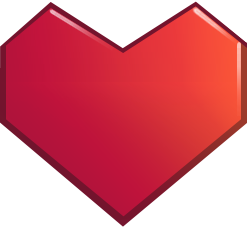
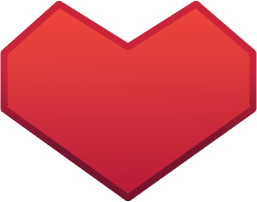
#86 - PlayerUI 구조 개선

Changed region(s): [[0.0, 0.0, 1.0, 1.0]]

diff --git a/SR_Project/Client/Code/UILoader.cpp b/SR_Project/Client/Code/UILoader.cpp
@@ -16,6 +16,7 @@
 #include "Slot.h"
 #include "Emerald.h"
 #include "HPBarBack.h"
+#include "ArrowSlot.h"
 
 void UILoader::LoadUI(ObjectManager* objMgr, Player* player)
 {
@@ -26,14 +27,14 @@ void UILoader::LoadUI(ObjectManager* objMgr, Player* player)
 
 	auto hpInfo = hpBarFront->GetComponent<ProgressBar<PlayerInfo>>();
 	playerInfo->Attach(hpInfo);
-	hpInfo->SetTrackType(UIEventType::HP_Changed);
+	hpInfo->SetUIEventType(UIEventType::HP_Changed);
 
 	auto expBarFront = ExpBarFront::Create(objMgr);
 	objMgr->AddUIObject(expBarFront);
 
 	auto expInfo = expBarFront->GetComponent<ProgressBar<PlayerInfo>>();
 	playerInfo->Attach(expInfo);
-	expInfo->SetTrackType(UIEventType::EXP_Changed);
+	expInfo->SetUIEventType(UIEventType::EXP_Changed);
 
 	auto debugUI = UIDebugObj::Create(objMgr);
 	objMgr->AddUIObject(debugUI);
@@ -42,22 +43,29 @@ void UILoader::LoadUI(ObjectManager* objMgr, Player* player)
 	objMgr->AddUIObject(HotBarBack::Create(objMgr));
 	//objMgr->AddUIObject(HPBarBack::Create(objMgr));
 
-
 	objMgr->AddUIObject(Cursor::Create(objMgr));
 
 	auto slot1 = Slot::Create(objMgr);
-	slot1->GetComponent<TransformComponent>()->SetPosition(550.f, 650.f);
+	slot1->GetComponent<TransformComponent>()->SetPosition(380.f, 650.f);
 	objMgr->AddUIObject(slot1);
 
 	auto slot2 = Slot::Create(objMgr);
-	slot2->GetComponent<TransformComponent>()->SetPosition(465.f, 650.f);
+	slot2->GetComponent<TransformComponent>()->SetPosition(450.f, 650.f);
 	objMgr->AddUIObject(slot2);
 
 	auto slot3 = Slot::Create(objMgr);
-	slot3->GetComponent<TransformComponent>()->SetPosition(380.f, 650.f);
+	slot3->GetComponent<TransformComponent>()->SetPosition(520.f, 650.f);
 	objMgr->AddUIObject(slot3);
 
 	auto slot4 = Slot::Create(objMgr);
-	slot4->GetComponent<TransformComponent>()->SetPosition(750.f, 650.f);
+	slot4->GetComponent<TransformComponent>()->SetPosition(705.f, 650.f);
 	objMgr->AddUIObject(slot4);
+
+	auto slot5 = Slot::Create(objMgr);
+	slot5->GetComponent<TransformComponent>()->SetPosition(770.f, 655.f);
+	slot5->GetComponent<UIRenderer>()->SetScale(0.2f,0.2f);
+	objMgr->AddUIObject(slot5);
+
+	auto arrowSlot = ArrowSlot::Create(objMgr);
+	objMgr->AddUIObject(arrowSlot);
 }

diff --git a/SR_Project/Client/Code/UIDebugObj.cpp b/SR_Project/Client/Code/UIDebugObj.cpp
@@ -22,8 +22,7 @@ HRESULT UIDebugObj::Ready_Object()
 	auto renderer  = AddComponent<UIRenderer>();
 	auto font      = AddComponent<FontComponent>();
 
-	auto rm = EngineCore::GetInstance()->GetResourceManager();
-	rm->RegisterUILayer(L"UIDebugObj", 1000);
+	font->SetFontType(FontType::Title);
 
 	return S_OK;
 }
@@ -35,7 +34,15 @@ void UIDebugObj::Update(float dt)
 	auto font = GetComponent<FontComponent>();
 
 	font->ClearText();
-	font->AddText(L"Lv: " + to_wstring(info.level), {650,650,850,770},Color::Cyan);
+	font->AddText(L"Lv: " + to_wstring(info.level), {600, 650, 800, 770}, Color::Cyan);
+
+	RECT debugRect = {1000, 400, 1400, 650};
+
+	font->AddText(
+		L"Hp: " + to_wstring(info.curHp) + L"/" + to_wstring(info.maxHp) + 
+		L"\nExp: " + to_wstring(info.curExp) + L"/" + to_wstring(info.maxExp) +
+		L"\nspeed: " + to_wstring((int)info.speed),
+		debugRect, Color::Cyan);
 
 	accTime += dt;
 	++frameCount;
@@ -50,7 +57,7 @@ void UIDebugObj::Update(float dt)
 	const auto& input = EngineCore::GetInstance()->GetInputSystem();
 	if (input->IsKeyPressed(KEY::LBUTTON))
 	{
-		playerInfo->AddExp(5);
-		playerInfo->AddHp(-10);
+	//	playerInfo->AddExp(5);
+	//	playerInfo->AddHp(-10);
 	}
 }

diff --git a/SR_Project/Engine/Header/ProgressBar.h b/SR_Project/Engine/Header/ProgressBar.h
@@ -17,7 +17,7 @@ public:
 	static ProgressBar* Create(Object* owner);
 	HRESULT Ready_Component();
 	
-	void SetTrackType(UIEventType type) { trackType = type; }
+	void SetUIEventType(UIEventType type) { eventType = type; }
 	void SetBarDirection(BarDirection _dir) { barDir = _dir; }
 
 	void Update(float dt) override;
@@ -33,10 +33,10 @@ protected:
 	int maxValue = 1;
 
 	float targetRatio = 1.f;
-	float curRatio = 1.f;
+	float curRatio = 0.f;
 	const float speed = 8.f;
 
-	UIEventType trackType = UIEventType::HP_Changed;
+	UIEventType eventType = UIEventType::HP_Changed;
 	BarDirection barDir = BarDirection::Vertical;
 };
 
@@ -60,7 +60,7 @@ inline HRESULT ProgressBar<T>::Ready_Component()
 template<typename T>
 void ProgressBar<T>::OnNotify(const UIEvent<T>& event)
 {
-	if (event.type != trackType)
+	if (event.type != eventType)
 		return;
 
 	switch (event.type)

diff --git a/SR_Project/Reference/Header/ProgressBar.h b/SR_Project/Reference/Header/ProgressBar.h
@@ -17,7 +17,7 @@ public:
 	static ProgressBar* Create(Object* owner);
 	HRESULT Ready_Component();
 	
-	void SetTrackType(UIEventType type) { trackType = type; }
+	void SetUIEventType(UIEventType type) { eventType = type; }
 	void SetBarDirection(BarDirection _dir) { barDir = _dir; }
 
 	void Update(float dt) override;
@@ -33,10 +33,10 @@ protected:
 	int maxValue = 1;
 
 	float targetRatio = 1.f;
-	float curRatio = 1.f;
+	float curRatio = 0.f;
 	const float speed = 8.f;
 
-	UIEventType trackType = UIEventType::HP_Changed;
+	UIEventType eventType = UIEventType::HP_Changed;
 	BarDirection barDir = BarDirection::Vertical;
 };
 
@@ -60,7 +60,7 @@ inline HRESULT ProgressBar<T>::Ready_Component()
 template<typename T>
 void ProgressBar<T>::OnNotify(const UIEvent<T>& event)
 {
-	if (event.type != trackType)
+	if (event.type != eventType)
 		return;
 
 	switch (event.type)

diff --git a/SR_Project/Client/Code/ArrowSlot.cpp b/SR_Project/Client/Code/ArrowSlot.cpp
@@ -1,0 +1,28 @@
+#include "pch.h"
+#include "ArrowSlot.h"
+#include "TransformComponent.h"
+#include "UIRenderer.h"
+#include "FontComponent.h"
+
+// 
+#include "InputSystem.h"
+
+ArrowSlot* ArrowSlot::Create(ObjectManager* owner)
+{
+	auto* instance = new ArrowSlot(owner);
+
+	return (FAILED(instance->Ready_Object())) ? Safe_Release(instance), nullptr : instance;
+}
+
+HRESULT ArrowSlot::Ready_Object()
+{
+	auto transform = AddComponent<TransformComponent>();
+	auto renderer = AddComponent<UIRenderer>();
+
+	transform->SetPosition(940.f,660.f);
+
+	renderer->SetScale(0.25f, 0.3f);
+	renderer->SetTexture(L"arrow_slot");
+
+	return S_OK;
+}

diff --git a/SR_Project/Engine/Header/Engine_UIStruct.h b/SR_Project/Engine/Header/Engine_UIStruct.h
@@ -2,6 +2,7 @@
 
 namespace Engine
 {
+
 	struct PlayerInfo
 	{
 		int level = 1;
@@ -22,6 +23,8 @@ namespace Engine
 		float speed;
 	};
 
+	// --------- Info -------------------------------
+
 	enum class UIEventType
 	{
 		HP_Changed,
@@ -34,4 +37,20 @@ namespace Engine
 		UIEventType type;
 		T info;
 	};
+
+	// ----------- UIEvent -------------------------------------------
+
+	enum class ItemType
+	{
+		Consumable, Equippable
+	};
+
+	struct ItemData
+	{
+		std::wstring name;
+		ItemType type;
+		int value;
+	};
+
+	// ---------------- ItemEvent ---------------------------------------
 }

diff --git a/SR_Project/Reference/Header/Engine_UIStruct.h b/SR_Project/Reference/Header/Engine_UIStruct.h
@@ -2,6 +2,7 @@
 
 namespace Engine
 {
+
 	struct PlayerInfo
 	{
 		int level = 1;
@@ -22,6 +23,8 @@ namespace Engine
 		float speed;
 	};
 
+	// --------- Info -------------------------------
+
 	enum class UIEventType
 	{
 		HP_Changed,
@@ -34,4 +37,20 @@ namespace Engine
 		UIEventType type;
 		T info;
 	};
+
+	// ----------- UIEvent -------------------------------------------
+
+	enum class ItemType
+	{
+		Consumable, Equippable
+	};
+
+	struct ItemData
+	{
+		std::wstring name;
+		ItemType type;
+		int value;
+	};
+
+	// ---------------- ItemEvent ---------------------------------------
 }

diff --git a/SR_Project/Engine/Header/FontComponent.h b/SR_Project/Engine/Header/FontComponent.h
@@ -4,7 +4,7 @@
 
 BEGIN(Engine)
 
-struct ENGINE_DLL TextEntry
+struct TextEntry
 {
 	wstring text;
 	RECT rect;
@@ -22,19 +22,16 @@ public:
 	static FontComponent* Create(Object* owner);
 
 	void AddText(const wstring& text, const RECT& rect, Color color = Color::White, DWORD format = DT_LEFT | DT_TOP);
-
-	void ClearText() { entries.clear(); }
-
 	void SetFontType(FontType type);
 	void Render();
-	
 
+	void ClearText() { entries.clear(); }
+	
 private:
 	HRESULT CreateFontResource();
 
 private:
 	ID3DXFont* font = nullptr;
-	
 	vector<TextEntry> entries;
 };
 

diff --git a/SR_Project/Reference/Header/FontComponent.h b/SR_Project/Reference/Header/FontComponent.h
@@ -4,7 +4,7 @@
 
 BEGIN(Engine)
 
-struct ENGINE_DLL TextEntry
+struct TextEntry
 {
 	wstring text;
 	RECT rect;
@@ -22,19 +22,16 @@ public:
 	static FontComponent* Create(Object* owner);
 
 	void AddText(const wstring& text, const RECT& rect, Color color = Color::White, DWORD format = DT_LEFT | DT_TOP);
-
-	void ClearText() { entries.clear(); }
-
 	void SetFontType(FontType type);
 	void Render();
-	
 
+	void ClearText() { entries.clear(); }
+	
 private:
 	HRESULT CreateFontResource();
 
 private:
 	ID3DXFont* font = nullptr;
-	
 	vector<TextEntry> entries;
 };
 

diff --git a/SR_Project/Client/Code/HPBarFront.cpp b/SR_Project/Client/Code/HPBarFront.cpp
@@ -16,11 +16,13 @@ HRESULT HPBarFront::Ready_Object()
 	auto transform = AddComponent<TransformComponent>();
 	auto renderer  = AddComponent<UIRenderer>();
 	auto hpUI      = AddComponent<ProgressBar<PlayerInfo>>();
-	
+
 	renderer->SetTexture(L"hpbar_front");
 	renderer->SetPivot(UIPivot::Bottom);
-	renderer->SetScale(0.35f, 0.32f);
-	transform->SetPosition(WINCX * 0.5f, WINCY * 0.97f);
+
+	renderer->SetScale(0.2f, 0.4f);
+
+	transform->SetPosition(615.f, 700.f);
 
 	return S_OK;
 }

diff --git a/SR_Project/Client/Code/Slot.cpp b/SR_Project/Client/Code/Slot.cpp
@@ -15,7 +15,7 @@ HRESULT Slot::Ready_Object()
 	auto transform = AddComponent<TransformComponent>();
 	auto renderer = AddComponent<UIRenderer>();
 
-	renderer->SetScale(0.3f, 0.3f);
+	renderer->SetScale(0.25f, 0.25f);
 	renderer->SetTexture(L"slot");
 
 	return S_OK;
